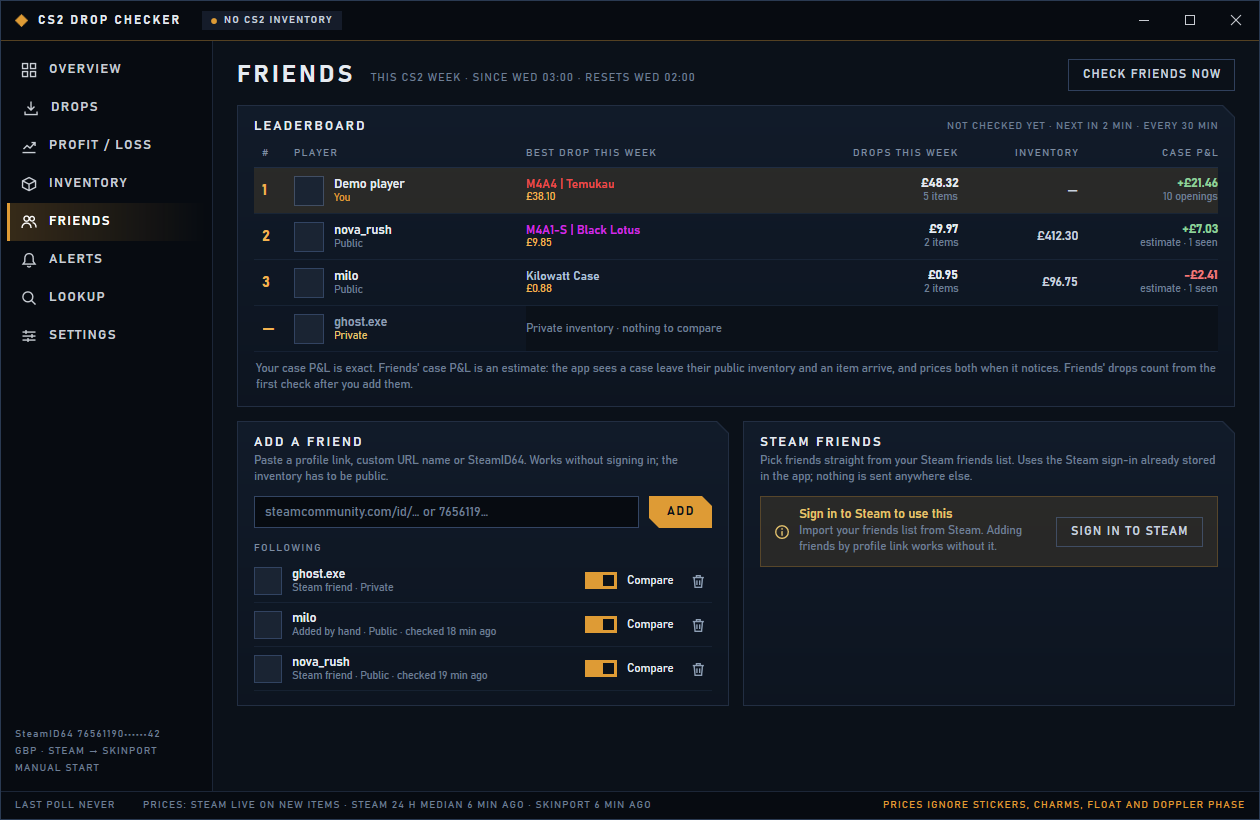
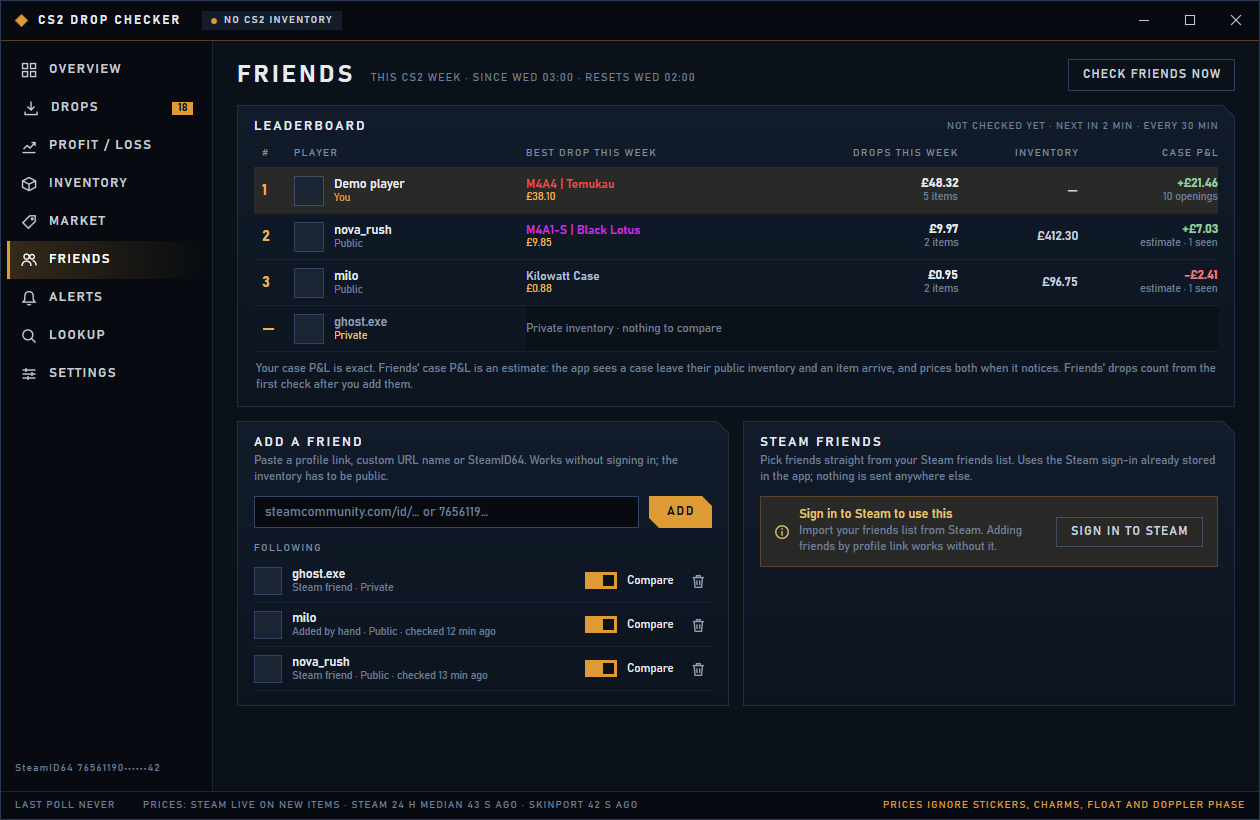
README and screenshots: sell window comparison, v0.2.0 sidebar
- Describe where the market comparison appears now that clicking a
  sellable Inventory item opens the sell window
- Retake the screenshots with the Market page in the sidebar

diff --git a/README.md b/README.md
@@ -70,7 +70,7 @@ Steam keeps a fee from each sale (5% Steam, 10% CS2). The price the app shows as
 - **Overview:** inventory value over time, case profit/loss, best drop, weekly drop count and recent drops (price when it arrived vs. now).
 - **Drops:** the full history, filtered by drops, openings, trade-ups or purchases. Click a row for selling options.
 - **Profit / Loss:** what your case openings cost and returned.
-- **Inventory:** the current inventory with prices. With sign-in, also the sell filter and selling.
+- **Inventory:** the current inventory with prices and where each item sells for most. With sign-in, also the sell filter and selling.
 - **Market:** your Steam Wallet, your listings (cancel any of them) and your sales, with the profit compared to each item's price when it arrived.
 - **Friends:** a weekly leaderboard with friends.
 - **Alerts:** price alerts for items and for your inventory total.
@@ -93,7 +93,7 @@ Every case or capsule opening is stored with its cost at that moment (case price
 
 ### Best place to sell
 
-Click an item on the Drops or Inventory page to see what you'd actually get on each market after fees, with the best one highlighted ("Sell on Skinport, +£3.20 vs Steam"). All fees are in one place, `SellFees` in `src/Cs2DropChecker.Core/Selling/Selling.cs`:
+See what you'd actually get on each market after fees, with the best one highlighted ("Sell on Skinport, +£3.20 vs Steam"). It is in the sell window when you click a sellable Inventory item, and in the item details panel when you click a row on the Drops page, an item you can't list from the app (not signed in, not marketable) or an item on the Lookup page. All fees are in one place, `SellFees` in `src/Cs2DropChecker.Core/Selling/Selling.cs`. The sell window uses the same Steam fee calculation, with your wallet's own fee rates when Steam sends them:
 
 | Market | Fee | Paid out as |
 | --- | --- | --- |
